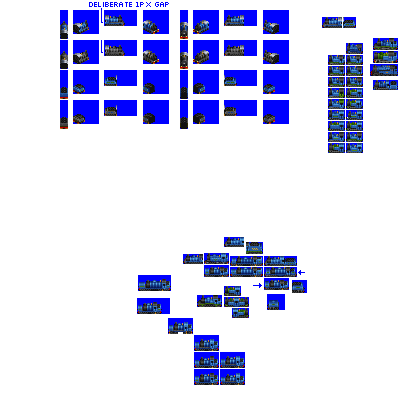
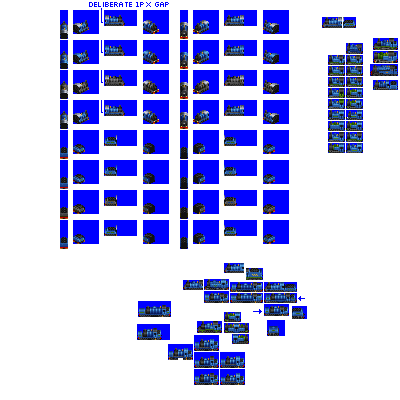
Change: additional liveries for Tyrconnell

diff --git a/src/vehicles/pony/tyrconnell.py b/src/vehicles/pony/tyrconnell.py
@@ -19,7 +19,7 @@ def main(**kwargs):
         gen=2,
         intro_year_offset=5,  # introduce a bit later eh
         random_reverse=False,
-        liveries=["CLASSIC_LINES", "FREIGHT_BLACK"],
+        liveries=["CLASSIC_LINES", "STOCK_STANDARD", "FREIGHT_BLACK", "INDUSTRIAL_YELLOW"],
         sprites_complete=True,
     )
 
